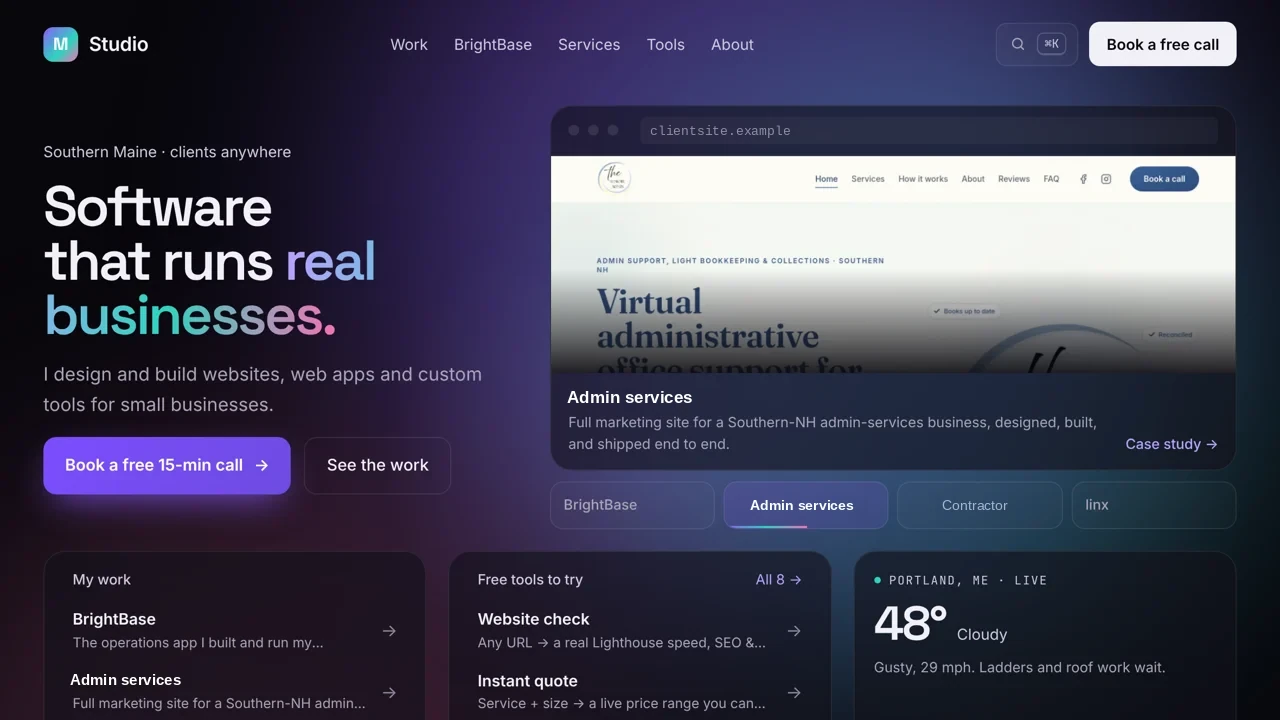
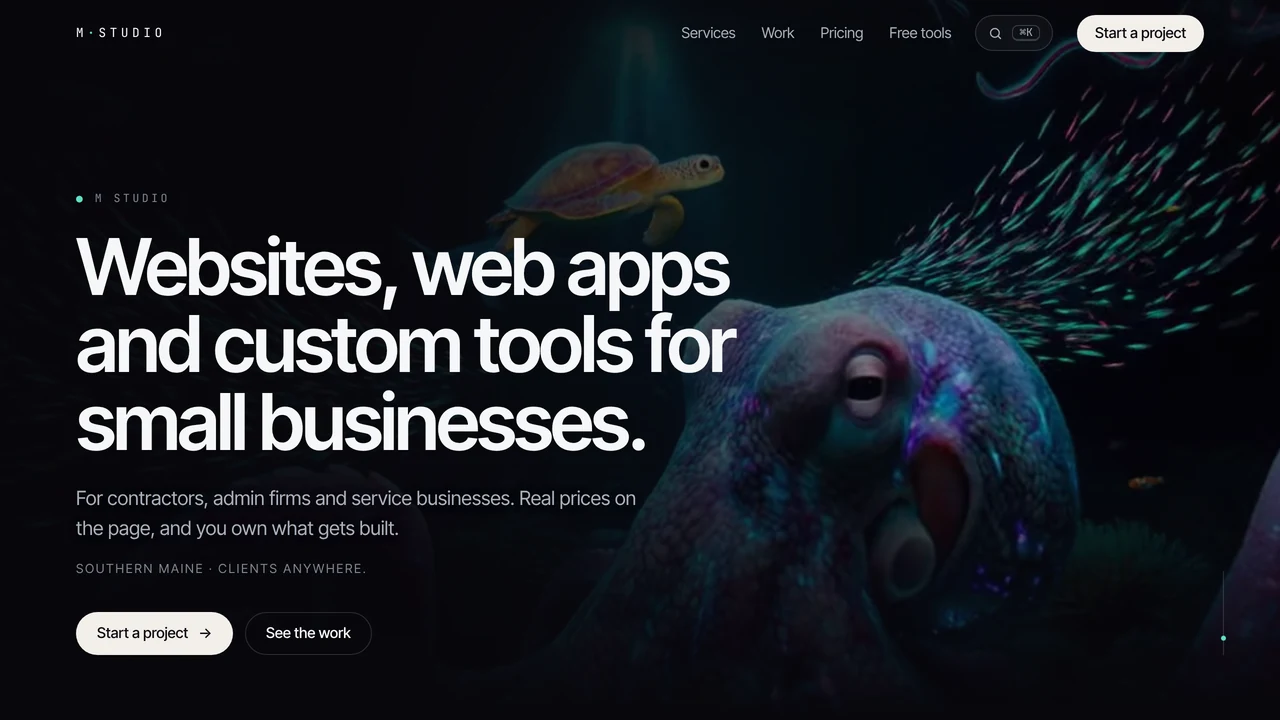
Re-shoot both live sites; the portfolio was showing old designs
Both screenshots were stale, and not slightly: maineclean.co and
mlinx.studio have each been redesigned since they were captured. The
portfolio was showing a hiring manager outdated versions of Megan's own
live work, next to copy saying the sites are live.

Captured fresh from the running sites at 1280x720, same dimensions as the
files they replace.

PRIVACY. The new maineclean.co hero shows 207-572-0502 twice -- in the
header and on the call button -- so both are redacted to 555-0100, the
convention the product mocks already use. Same method as the earlier
redactions: sampled text colour, original font size, and the cleared box
refilled with a per-column vertical gradient taken from just outside it,
which matters here because the background is photographic.

The mlinx.studio page does carry a client name and a phone number further
down, so I checked the captured region rather than assuming: the hero holds
neither. Checked, not eyeballed -- the live page text was searched for both
and the crop verified afterwards.

ALT TEXT HAD TO CHANGE WITH THE IMAGES, which is the part that is easy to
miss. Both alts described the old designs -- "showing a live preview of a
client site" and "with a live preview of a client site and the free tools
list". The new hero has neither. Alt text that describes a previous version
of an image is worse than terse alt text: it tells a screen-reader user
something that is not on the page. All three (two in content/home.ts, one
[…]

diff --git a/content/home.ts b/content/home.ts
@@ -53,7 +53,7 @@ export const projects: readonly Project[] = [
     tag: 'Website · live demo',
     line: 'The cleaning company site with an instant price and online booking, kept online as a demo.',
     img: '/img/tmcc-demo.webp',
-    alt: 'The Maine Cleaning Co. website homepage',
+    alt: 'The Maine Cleaning Co. homepage: "The Way Cleaning Should Be" over coastal footage, with an estimate button',
     position: 'top left',
     href: '/work/maineclean/',
     extra: { label: 'Code', href: 'https://github.com/msmall2691-eng/maine-cleaning-co' },
@@ -72,7 +72,7 @@ export const projects: readonly Project[] = [
     tag: 'Studio website · live',
     line: 'My studio site: live client previews, eight free tools and live Maine weather.',
     img: '/img/mstudio-live.webp',
-    alt: 'mlinx.studio homepage showing a live preview of a client site',
+    alt: 'The mlinx.studio homepage: "Websites, web apps and custom tools for small businesses" over underwater footage',
     position: 'top',
     href: '/work/m-studio-tools/',
     extra: { label: 'Visit', href: 'https://mlinx.studio' },

diff --git a/content/caseStudies.ts b/content/caseStudies.ts
@@ -323,7 +323,7 @@ export const caseStudies: readonly CaseStudy[] = [
     liveUrl: { href: 'https://mlinx.studio/tools', label: 'Try the tools ↗' },
     image: {
       src: '/img/mstudio-live.webp',
-      alt: 'The mlinx.studio homepage with a live preview of a client site and the free tools list',
+      alt: 'The mlinx.studio homepage: "Websites, web apps and custom tools for small businesses" over underwater footage',
       caption: 'mlinx.studio, where the tools live.',
       width: 1280,
       height: 720,
